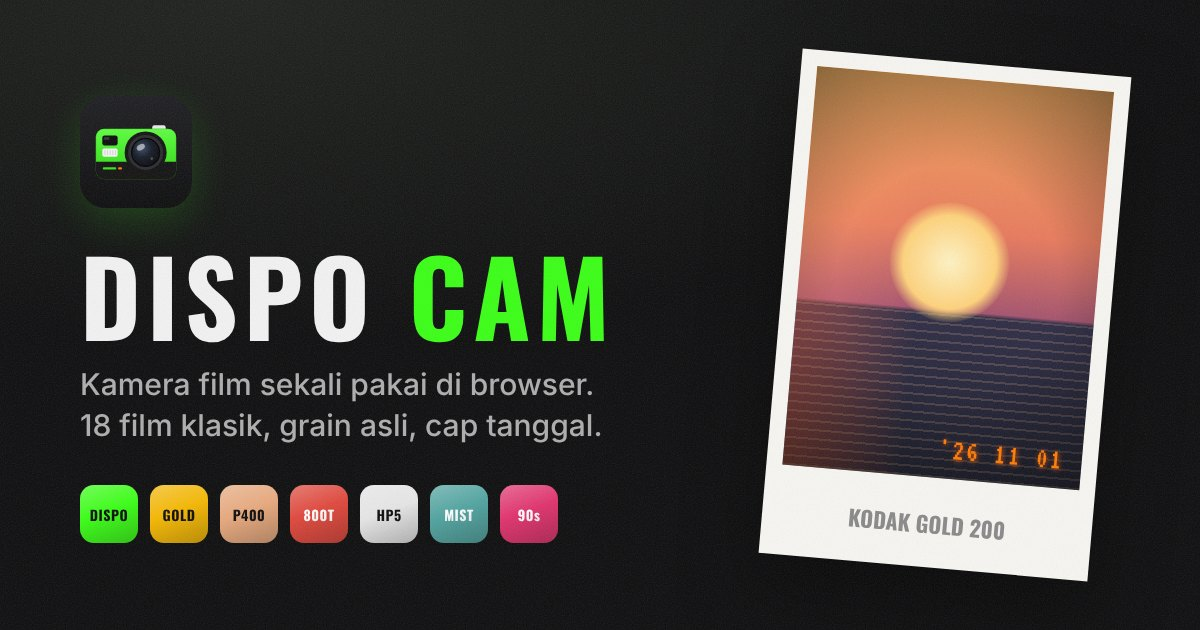
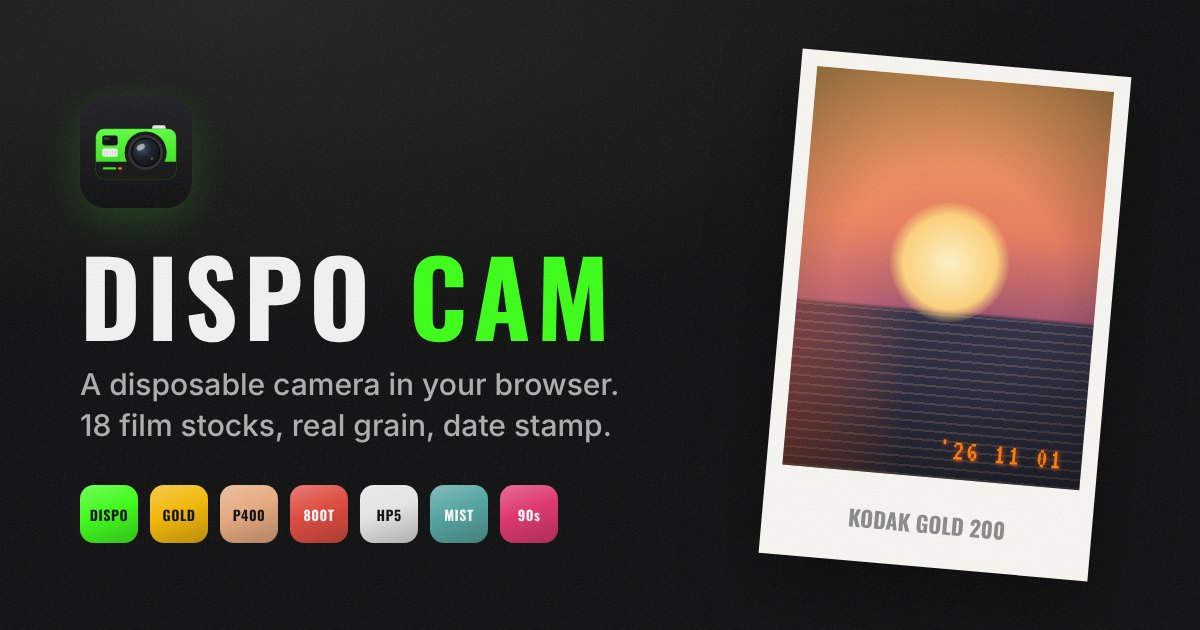
Make English the default language (#6)
- Translate all UI copy, messages, dates and aria labels to English
- English page metadata, link-preview text and manifest
- Re-render share image with English tagline
- Note English default in CLAUDE.md

Claude-Session: https://claude.ai/code/session_01KctQp4t6RTtCqkYuunfTB6

Changed region(s): [[0.0617, 0.573, 0.5242, 0.6333], [0.1542, 0.6635, 0.5242, 0.7238]]

diff --git a/index.html b/index.html
@@ -1,5 +1,5 @@
 <!DOCTYPE html>
-<html lang="id">
+<html lang="en">
 <head>
 <meta charset="UTF-8">
 <meta name="viewport" content="width=device-width, initial-scale=1.0, maximum-scale=1.0, user-scalable=no, viewport-fit=cover">
@@ -9,7 +9,7 @@
 <meta name="apple-mobile-web-app-status-bar-style" content="black-translucent">
 <meta name="apple-mobile-web-app-title" content="Dispo Cam">
 <meta name="theme-color" content="#0b0b0c">
-<meta name="description" content="Kamera film sekali pakai di browser. 18 film klasik, grain asli, cap tanggal.">
+<meta name="description" content="A disposable film camera in your browser. 18 classic film stocks, real grain, date stamp.">
 <link rel="manifest" href="manifest.webmanifest">
 <link rel="icon" href="icons/favicon.svg" type="image/svg+xml">
 <link rel="icon" href="icons/favicon-32.png" sizes="32x32" type="image/png">
@@ -17,17 +17,17 @@
 <!-- Link preview (WhatsApp, IG, X, Telegram, iMessage) -->
 <meta property="og:type" content="website">
 <meta property="og:site_name" content="Dispo Cam">
-<meta property="og:title" content="Dispo Cam: kamera film di browser">
-<meta property="og:description" content="18 film klasik, grain asli, cap tanggal. Langsung jepret, tanpa install.">
+<meta property="og:title" content="Dispo Cam: a film camera in your browser">
+<meta property="og:description" content="18 classic film stocks, real grain, date stamp. Just shoot, no install.">
 <meta property="og:url" content="https://dispocam-by-wolfpuplabs.vercel.app/">
 <meta property="og:image" content="https://dispocam-by-wolfpuplabs.vercel.app/icons/og-image.jpg">
 <meta property="og:image:width" content="1200">
 <meta property="og:image:height" content="630">
-<meta property="og:image:alt" content="Dispo Cam: ikon kamera sekali pakai dan contoh foto berbingkai">
-<meta property="og:locale" content="id_ID">
+<meta property="og:image:alt" content="Dispo Cam: disposable camera icon and a framed sample print">
+<meta property="og:locale" content="en_US">
 <meta name="twitter:card" content="summary_large_image">
-<meta name="twitter:title" content="Dispo Cam: kamera film di browser">
-<meta name="twitter:description" content="18 film klasik, grain asli, cap tanggal. Langsung jepret, tanpa install.">
+<meta name="twitter:title" content="Dispo Cam: a film camera in your browser">
+<meta name="twitter:description" content="18 classic film stocks, real grain, date stamp. Just shoot, no install.">
 <meta name="twitter:image" content="https://dispocam-by-wolfpuplabs.vercel.app/icons/og-image.jpg">
 <link rel="preconnect" href="https://fonts.googleapis.com">
 <link rel="preconnect" href="https://fonts.gstatic.com" crossorigin>
@@ -169,8 +169,8 @@
       <div class="toast" id="toast"></div>
       <div class="blink" id="blink"></div>
       <div class="vf-msg" id="vf-msg">
-        <div id="vf-msg-text">Izinkan akses kamera untuk mulai memotret.</div>
-        <button class="pill" id="retry-btn">Coba lagi</button>
+        <div id="vf-msg-text">Allow camera access to start shooting.</div>
+        <button class="pill" id="retry-btn">Try again</button>
       </div>
     </div>
   </div>
@@ -179,37 +179,37 @@
 
   <div class="controls">
     <button class="thumb" id="thumb" aria-label="Library"><img id="thumb-img" alt=""><span class="count" id="thumb-count"></span></button>
-    <button class="shutter" id="shutter" aria-label="Ambil foto"><span></span></button>
-    <button class="flip" id="flip-btn" aria-label="Ganti kamera"><svg class="i" viewBox="0 0 24 24"><path d="M20 11a8 8 0 0 0-14.3-4.9L4 8"/><path d="M4 3v5h5"/><path d="M4 13a8 8 0 0 0 14.3 4.9L20 16"/><path d="M20 21v-5h-5"/></svg></button>
+    <button class="shutter" id="shutter" aria-label="Take photo"><span></span></button>
+    <button class="flip" id="flip-btn" aria-label="Switch camera"><svg class="i" viewBox="0 0 24 24"><path d="M20 11a8 8 0 0 0-14.3-4.9L4 8"/><path d="M4 3v5h5"/><path d="M4 13a8 8 0 0 0 14.3 4.9L20 16"/><path d="M20 21v-5h-5"/></svg></button>
   </div>
 </div>
 
 <!-- Library -->
 <section class="sheet" id="library">
   <div class="sheet-head">
-    <button class="ibtn" id="lib-close" aria-label="Tutup"><svg class="i" viewBox="0 0 24 24"><path d="m6 9 6 6 6-6"/></svg></button>
-    <div class="sheet-title">Library<small id="lib-count">0 foto</small></div>
-    <button class="txt accent" id="select-btn">Pilih</button>
+    <button class="ibtn" id="lib-close" aria-label="Close"><svg class="i" viewBox="0 0 24 24"><path d="m6 9 6 6 6-6"/></svg></button>
+    <div class="sheet-title">Library<small id="lib-count">0 photos</small></div>
+    <button class="txt accent" id="select-btn">Select</button>
   </div>
   <div class="grid" id="grid"></div>
   <div class="bar" id="lib-bar">
-    <button class="danger" id="multi-del" aria-label="Hapus"><svg class="i" viewBox="0 0 24 24"><path d="M4 7h16M10 11v6M14 11v6M6 7l1 13h10l1-13M9 7V4h6v3"/></svg></button>
-    <button class="primary" id="multi-share"><svg class="i" viewBox="0 0 24 24"><path d="M12 3v12M7 10l5 5 5-5M5 21h14"/></svg>Simpan / Bagikan (<span id="sel-count">0</span>)</button>
+    <button class="danger" id="multi-del" aria-label="Delete"><svg class="i" viewBox="0 0 24 24"><path d="M4 7h16M10 11v6M14 11v6M6 7l1 13h10l1-13M9 7V4h6v3"/></svg></button>
+    <button class="primary" id="multi-share"><svg class="i" viewBox="0 0 24 24"><path d="M12 3v12M7 10l5 5 5-5M5 21h14"/></svg>Save / Share (<span id="sel-count">0</span>)</button>
   </div>
 </section>
 
 <!-- Viewer -->
 <section class="sheet" id="viewer">
   <div class="sheet-head">
-    <button class="ibtn" id="view-close" aria-label="Kembali"><svg class="i" viewBox="0 0 24 24"><path d="m15 6-6 6 6 6"/></svg></button>
-    <div class="sheet-title" id="view-title">Foto<small id="view-sub"></small></div>
+    <button class="ibtn" id="view-close" aria-label="Back"><svg class="i" viewBox="0 0 24 24"><path d="m15 6-6 6 6 6"/></svg></button>
+    <div class="sheet-title" id="view-title">Photo<small id="view-sub"></small></div>
     <span></span>
   </div>
-  <div class="viewer" id="view-stage"><img id="view-img" alt="Foto"></div>
+  <div class="viewer" id="view-stage"><img id="view-img" alt="Photo"></div>
   <div class="bar show">
-    <button class="danger" id="view-del" aria-label="Hapus"><svg class="i" viewBox="0 0 24 24"><path d="M4 7h16M10 11v6M14 11v6M6 7l1 13h10l1-13M9 7V4h6v3"/></svg></button>
-    <button id="view-save"><svg class="i" viewBox="0 0 24 24"><path d="M12 3v12M7 10l5 5 5-5M5 21h14"/></svg>Simpan</button>
-    <button class="primary" id="view-share"><svg class="i" viewBox="0 0 24 24"><circle cx="18" cy="5" r="3"/><circle cx="6" cy="12" r="3"/><circle cx="18" cy="19" r="3"/><path d="m8.6 13.5 6.8 4M15.4 6.5l-6.8 4"/></svg>Bagikan</button>
+    <button class="danger" id="view-del" aria-label="Delete"><svg class="i" viewBox="0 0 24 24"><path d="M4 7h16M10 11v6M14 11v6M6 7l1 13h10l1-13M9 7V4h6v3"/></svg></button>
+    <button id="view-save"><svg class="i" viewBox="0 0 24 24"><path d="M12 3v12M7 10l5 5 5-5M5 21h14"/></svg>Save</button>
+    <button class="primary" id="view-share"><svg class="i" viewBox="0 0 24 24"><circle cx="18" cy="5" r="3"/><circle cx="6" cy="12" r="3"/><circle cx="18" cy="19" r="3"/><path d="m8.6 13.5 6.8 4M15.4 6.5l-6.8 4"/></svg>Share</button>
   </div>
 </section>
 
@@ -477,7 +477,7 @@ function applyToggles() {
   // Frame output: width 1.10w, height (4/3 + .05 + .22)w  ->  same proportions as the saved file
   document.documentElement.style.setProperty('--vf-ratio', prefs.frame ? (1.1 / (4/3 + .27)).toFixed(5) : '0.75');
 }
-[['flash-btn','flash','Flash'], ['date-btn','date','Tanggal'], ['frame-btn','frame','Bingkai'], ['round-btn','round','Sudut bulat']].forEach(([id, key, label]) => {
+[['flash-btn','flash','Flash'], ['date-btn','date','Date'], ['frame-btn','frame','Frame'], ['round-btn','round','Rounded']].forEach(([id, key, label]) => {
   $(id).addEventListener('click', () => { prefs[key] = !prefs[key]; savePrefs(); applyToggles(); toast(`${label.toUpperCase()} ${prefs[key] ? 'ON' : 'OFF'}`); vibrate(6); });
 });
 
@@ -486,7 +486,7 @@ function showMsg(text) { $('vf-msg-text').textContent = text; $('vf-msg').classL
 async function initCamera() {
   $('vf-msg').classList.remove('show');
   if (stream) stream.getTracks().forEach(t => t.stop());
-  if (!navigator.mediaDevices || !navigator.mediaDevices.getUserMedia) { showMsg('Browser ini tidak mendukung kamera. Buka lewat HTTPS di Safari / Chrome.'); return; }
+  if (!navigator.mediaDevices || !navigator.mediaDevices.getUserMedia) { showMsg('This browser does not support the camera. Open it over HTTPS in Safari or Chrome.'); return; }
   try {
     stream = await navigator.mediaDevices.getUserMedia({ audio: false, video: { facingMode: prefs.facing, width: { ideal: 1920 }, height: { ideal: 1440 } } });
     video.srcObject = stream;
@@ -495,7 +495,7 @@ async function initCamera() {
     const caps = track.getCapabilities ? track.getCapabilities() : {};
     torchOK = !!caps.torch;
   } catch (err) {
-    showMsg(err && err.name === 'NotAllowedError' ? 'Akses kamera ditolak. Izinkan kamera di pengaturan browser lalu coba lagi.' : 'Kamera tidak bisa dibuka. Pastikan tidak sedang dipakai aplikasi lain.');
+    showMsg(err && err.name === 'NotAllowedError' ? 'Camera access was denied. Allow the camera in your browser settings and try again.' : 'Could not open the camera. Make sure no other app is using it.');
   }
 }
 $('retry-btn').addEventListener('click', initCamera);
@@ -511,7 +511,7 @@ function cropFor(vw, vh) {   // centred 3:4 cover crop, in texture UV
 
 /* ---------- Live preview loop ---------- */
 try { previewR = new FilmRenderer(preview, false); }
-catch (e) { showMsg('Perangkat ini tidak mendukung WebGL, filter tidak bisa dijalankan.'); }
+catch (e) { showMsg('This device does not support WebGL, so film filters cannot run.'); }
 
 let frameN = 0, seed = 0;
 function loop() {
@@ -591,7 +591,7 @@ async function capture() {
     const blob = await compose(captureR.canvas, w, h, film);
     await addPhoto(blob, film);
   } catch (e) {
-    console.error(e); toast('GAGAL MENYIMPAN FOTO');
+    console.error(e); toast('COULD NOT SAVE PHOTO');
   } finally {
     busy = false; $('shutter').classList.remove('busy');
   }
@@ -660,8 +660,8 @@ function renderThumb() {
 }
 function renderGrid() {
   grid.innerHTML = '';
-  $('lib-count').textContent = `${photos.length} foto`;
-  if (!photos.length) { grid.innerHTML = '<div class="empty">Belum ada foto.<br>Jepret sesuatu dulu 📷</div>'; return; }
+  $('lib-count').textContent = `${photos.length} ${photos.length === 1 ? 'photo' : 'photos'}`;
+  if (!photos.length) { grid.innerHTML = '<div class="empty">No photos yet.<br>Go shoot something 📷</div>'; return; }
   photos.forEach((p, i) => {
     const cell = document.createElement('div'); cell.className = 'cell' + (selected.has(p.id) ? ' sel' : '');
     cell.innerHTML = `<img src="${p.url}" alt="" loading="lazy"><span class="chk"></span>`;
@@ -678,7 +678,7 @@ function updateBar() {
   $('multi-share').disabled = $('multi-del').disabled = !selected.size;
 }
 function setSelecting(on) {
-  selecting = on; selected.clear(); $('select-btn').textContent = on ? 'Batal' : 'Pilih';
+  selecting = on; selected.clear(); $('select-btn').textContent = on ? 'Cancel' : 'Select';
   grid.classList.toggle('selecting', on); grid.querySelectorAll('.cell').forEach(c => c.classList.remove('sel')); updateBar();
 }
 $('select-btn').addEventListener('click', () => setSelecting(!selecting));
@@ -703,7 +703,7 @@ $('multi-share').addEventListener('click', async () => {
   if (await shareOrSave(photos.filter(p => selected.has(p.id)))) setSelecting(false);
 });
 $('multi-del').addEventListener('click', async () => {
-  if (!selected.size || !confirm(`Hapus ${selected.size} foto?`)) return;
+  if (!selected.size || !confirm(`Delete ${selected.size} ${selected.size === 1 ? 'photo' : 'photos'}?`)) return;
   await deletePhotos([...selected]); setSelecting(false);
 });
 
@@ -714,14 +714,14 @@ function showViewer() {
   $('view-img').src = p.url;
   const d = new Date(p.created);
   $('view-title').firstChild.textContent = p.film;
-  $('view-sub').textContent = `${viewIdx + 1}/${photos.length} · ${d.toLocaleDateString('id-ID', { day: 'numeric', month: 'short', year: 'numeric' })} ${d.toLocaleTimeString('id-ID', { hour: '2-digit', minute: '2-digit' })}`;
+  $('view-sub').textContent = `${viewIdx + 1}/${photos.length} · ${d.toLocaleDateString('en-US', { day: 'numeric', month: 'short', year: 'numeric' })} ${d.toLocaleTimeString('en-US', { hour: '2-digit', minute: '2-digit' })}`;
 }
 function stepViewer(dir) { const n = viewIdx + dir; if (n >= 0 && n < photos.length) { viewIdx = n; showViewer(); } }
 $('view-close').addEventListener('click', () => $('viewer').classList.remove('open'));
 $('view-share').addEventListener('click', () => photos[viewIdx] && shareOrSave([photos[viewIdx]]));
 $('view-save').addEventListener('click', () => photos[viewIdx] && download(photos[viewIdx]));
 $('view-del').addEventListener('click', async () => {
-  const p = photos[viewIdx]; if (!p || !confirm('Hapus foto ini?')) return;
+  const p = photos[viewIdx]; if (!p || !confirm('Delete this photo?')) return;
   await deletePhotos([p.id]);
   if (!photos.length) { $('viewer').classList.remove('open'); return; }
   viewIdx = Math.min(viewIdx, photos.length - 1); showViewer();

diff --git a/CLAUDE.md b/CLAUDE.md
@@ -8,4 +8,4 @@
 - Seluruh aplikasi ada di `index.html` (HTML + CSS + JS, tanpa build step).
 - Filter film dirender oleh satu shader WebGL (`FilmRenderer`) yang dipakai untuk live preview dan capture, jadi hasil foto harus selalu sama dengan preview.
 - Resep film ada di array `FILMS`; nilai default di `BASE`.
-- UI dan pesan untuk pengguna memakai Bahasa Indonesia.
+- Bahasa default UI, pesan, dan metadata adalah English.
